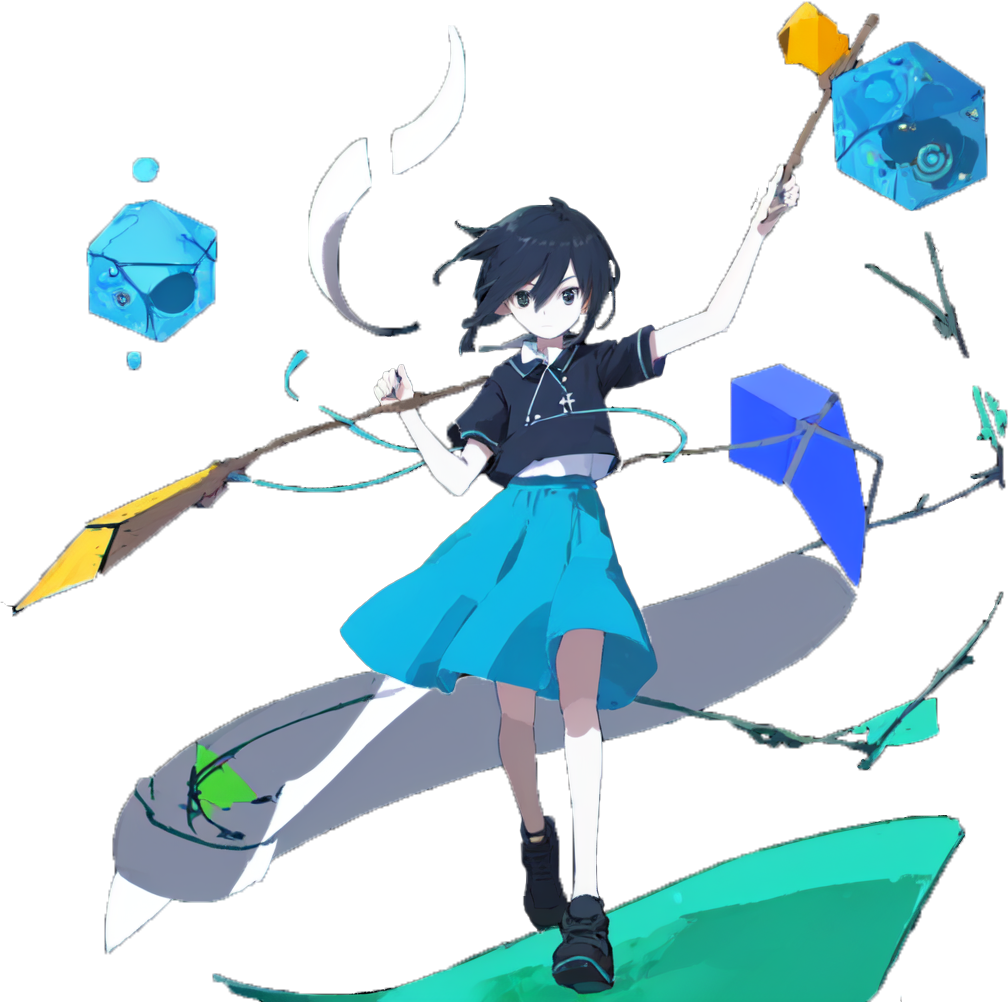
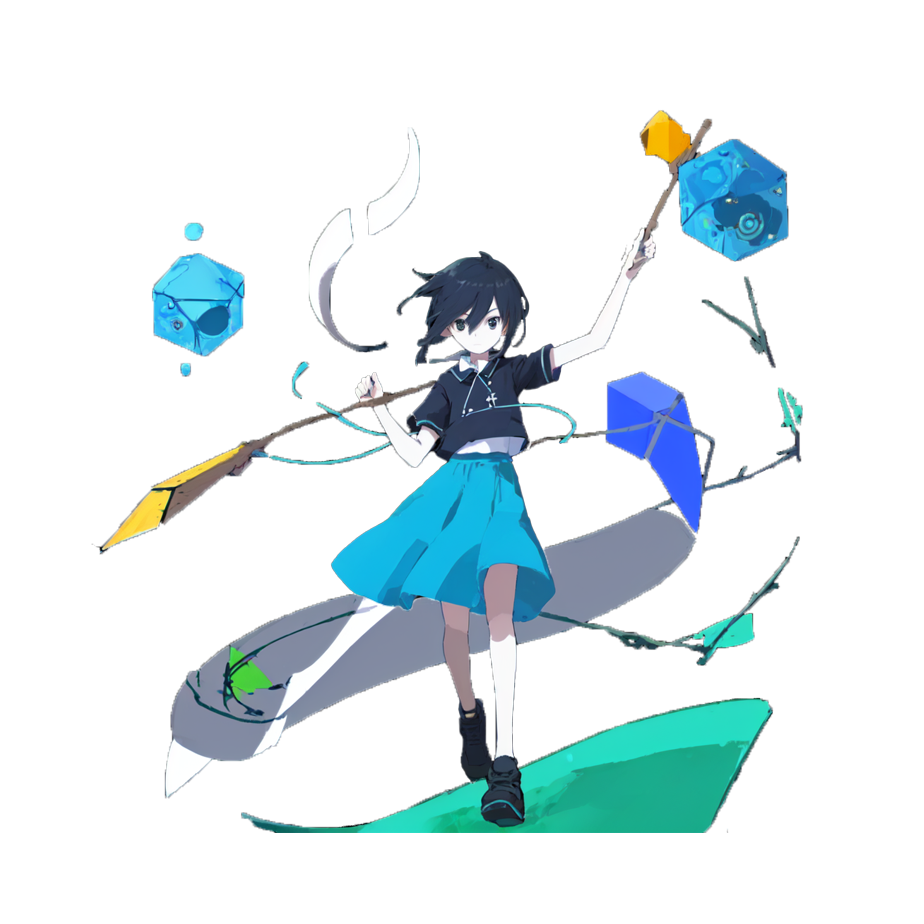
improve: 更多看板 Musume

diff --git a/web/src/components/auth/ShowMusume.tsx b/web/src/components/auth/ShowMusume.tsx
@@ -1,10 +1,20 @@
-import { FC } from "react";
+import { FC, useMemo } from "react";
 import logo from "@/assets/img/logo-white.png";
 import bkg from "@/assets/img/bkg.png";
+import bgk_2910230214 from "@/assets/img/bkg_2910230214.png";
+import bgk_627660024 from "@/assets/img/bgk_627660024.png";
+import bgk_627660022 from "@/assets/img/bgk_627660022.png";
 
 import { Stack, Box, Paper } from "@mui/material";
 
+const images = [bkg, bgk_2910230214, bgk_627660024, bgk_627660022];
+
 export const ShowMusume: FC = () => {
+  const img = useMemo(
+    () => images[Math.floor(Math.random() * images.length)],
+    []
+  );
+
   return (
     <Stack
       sx={{
@@ -41,9 +51,9 @@ export const ShowMusume: FC = () => {
       >
         <img
           style={{
-            maxWidth: "85%",
+            width: "100%",
           }}
-          src={bkg}
+          src={img}
           alt={"看板 MuSiMie"}
           title={"“走，上工！”"}
         />
